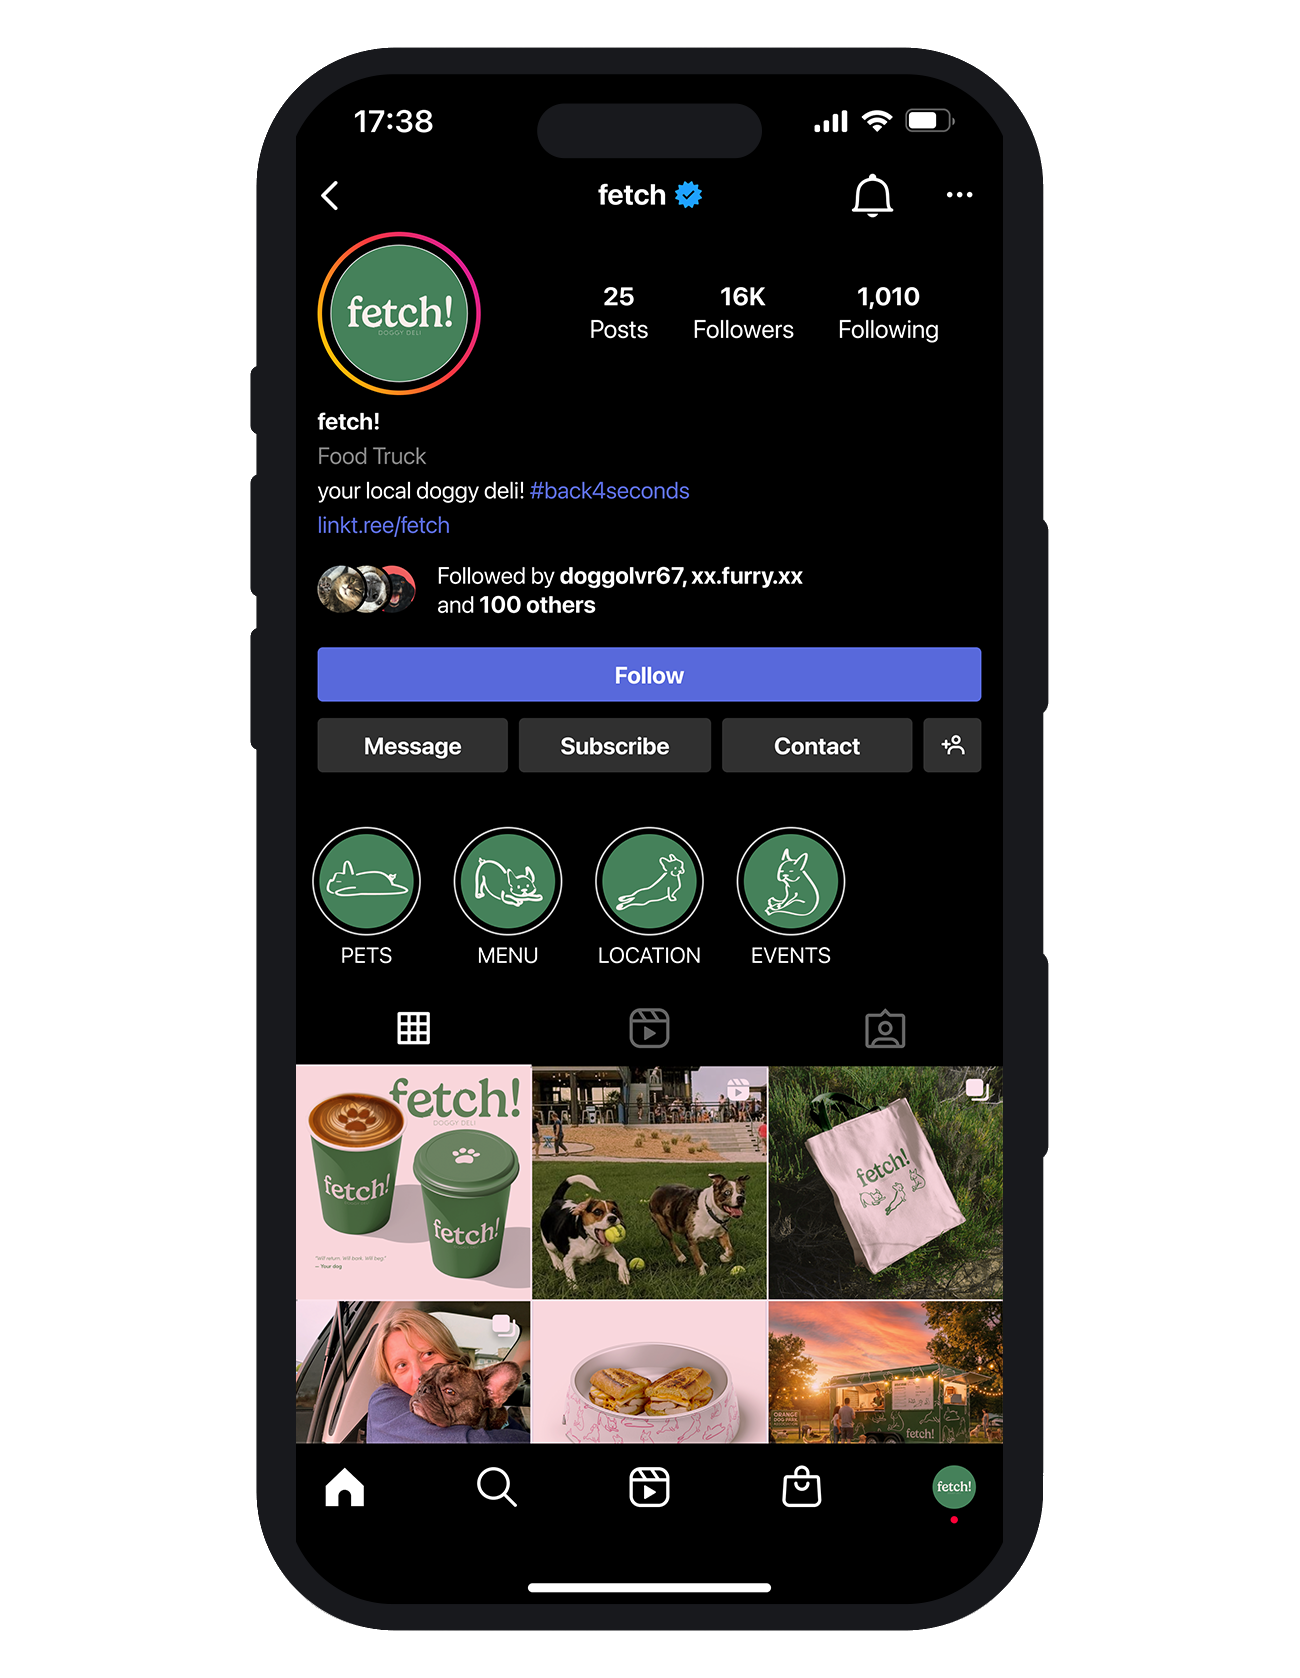
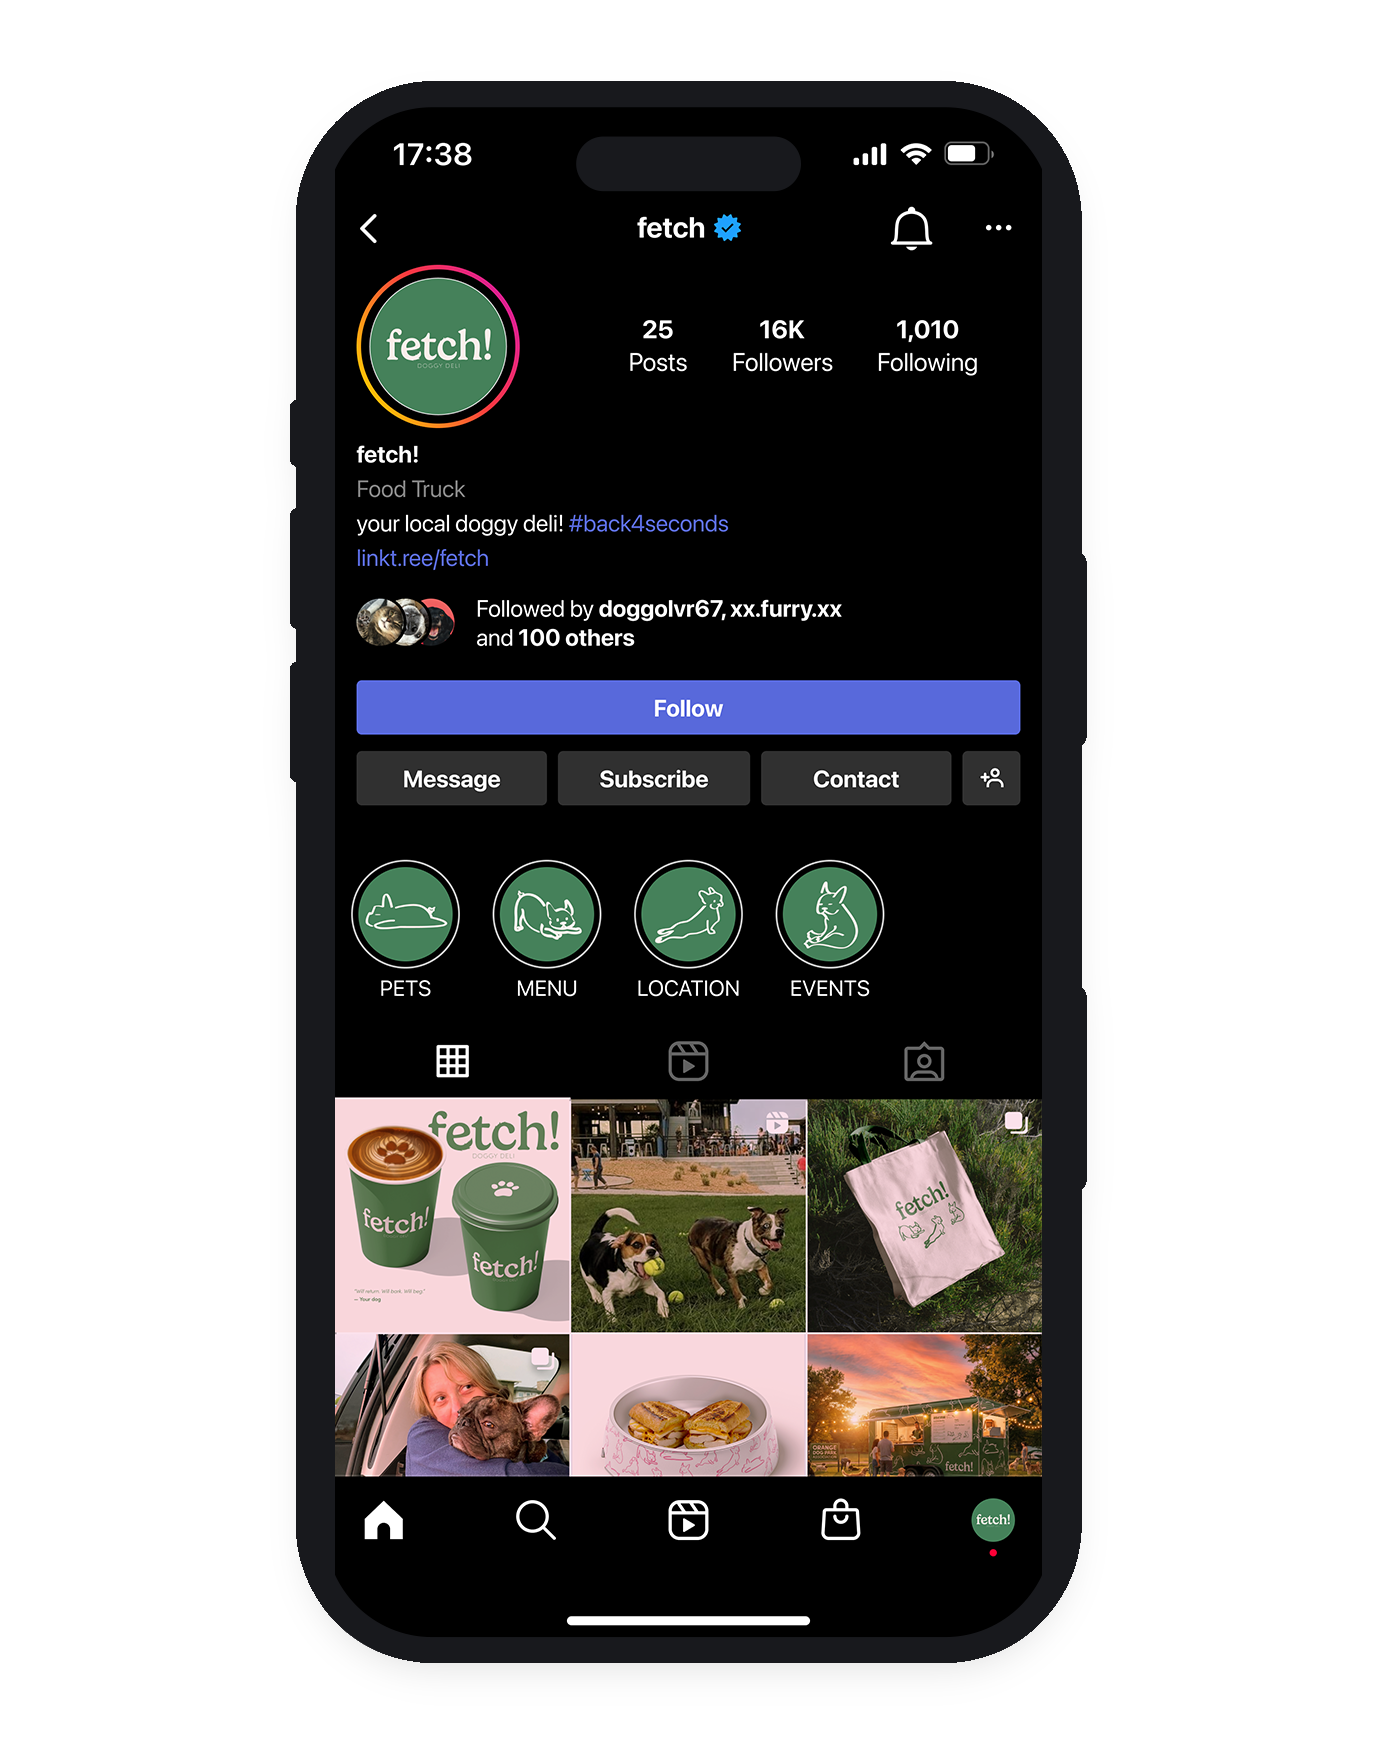
fetch!: strip baked-in shadow from socials mockups, add a clean one
The original export's drop shadow never reached full alpha, so
thresholding at near-opaque isolates just the device silhouette --
cropped out the old flat shadow entirely, then baked in a matching
soft shadow on both mockups and re-padded them to a shared ratio so
they stay equal size.

Changed region(s): [[0.1846, 0.031, 0.8308, 0.9917], [0.5231, 0.1549, 0.6154, 0.2169]]

diff --git a/src/data/projectDetails.ts b/src/data/projectDetails.ts
@@ -1074,13 +1074,13 @@ export const PROJECT_DETAILS: Record<string, ProjectDetailData> = {
           {
             src: fetchSocialOrganic,
             alt: 'fetch! organic Instagram profile and highlight covers',
-            width: 1300,
-            height: 1678,
+            width: 1377,
+            height: 1760,
           },
           {
             src: fetchSocialPaid,
             alt: 'fetch! paid Instagram feed ad and story ad',
-            width: 1550,
+            width: 1565,
             height: 2000,
           },
         ],
